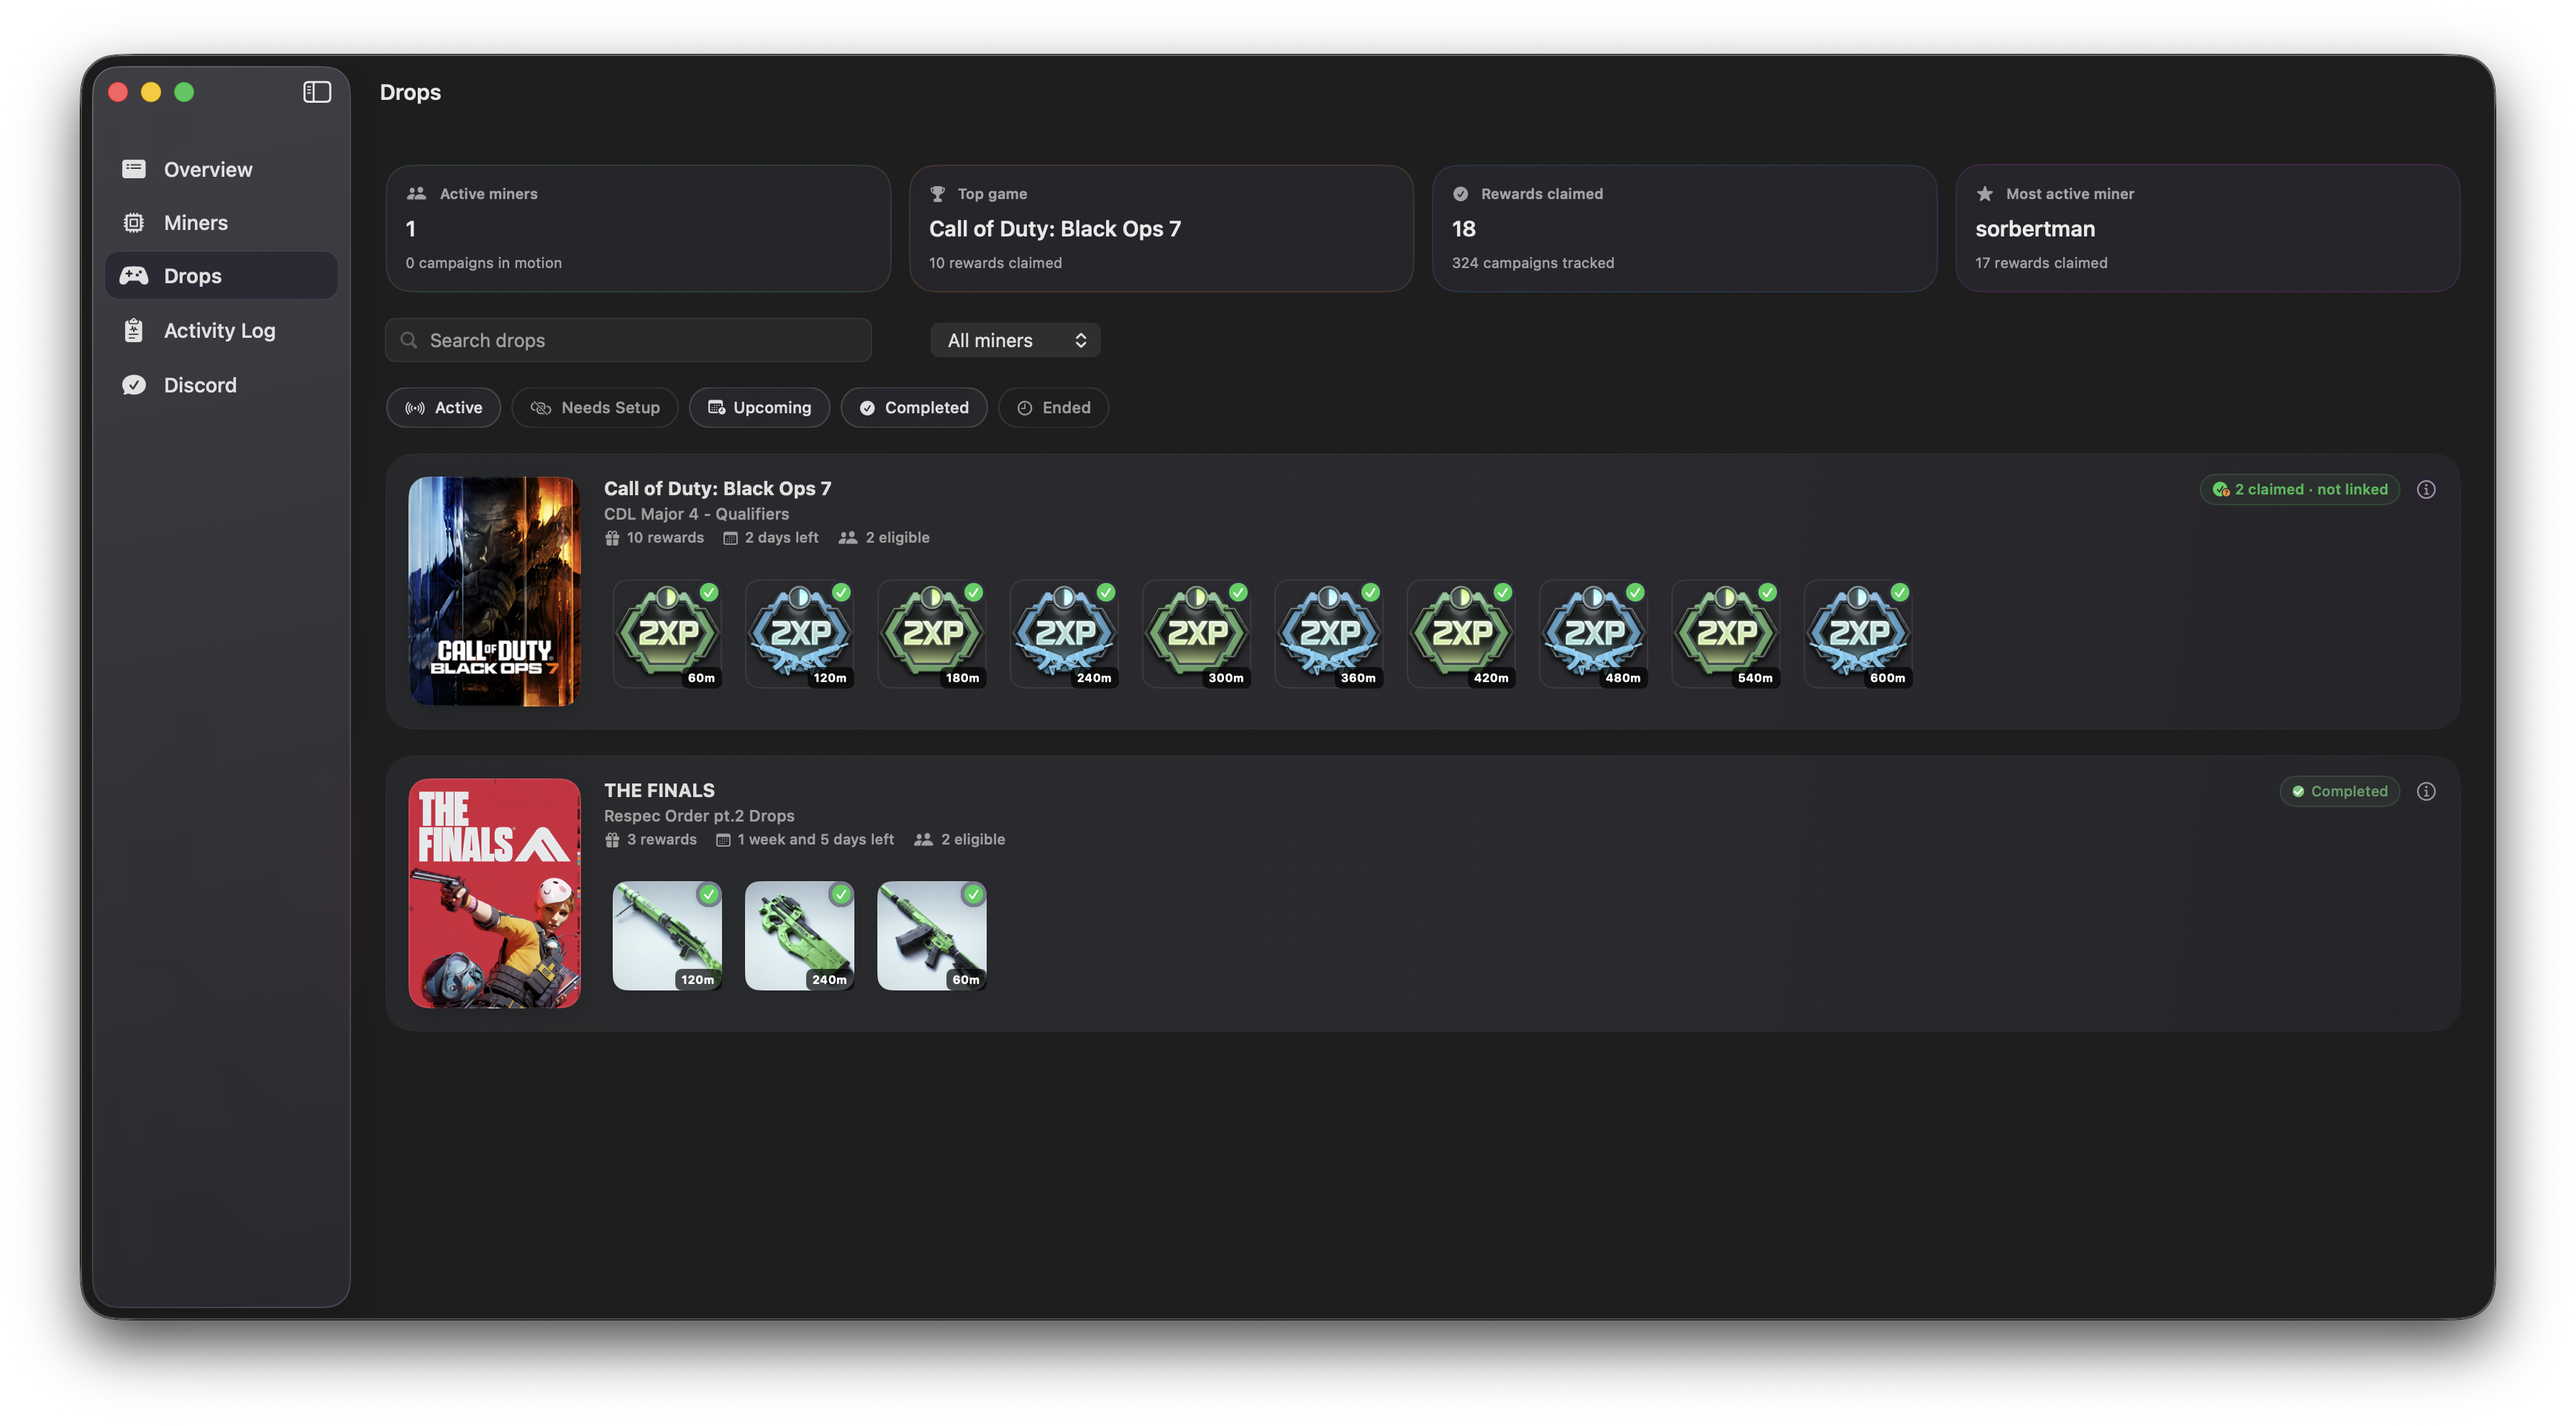
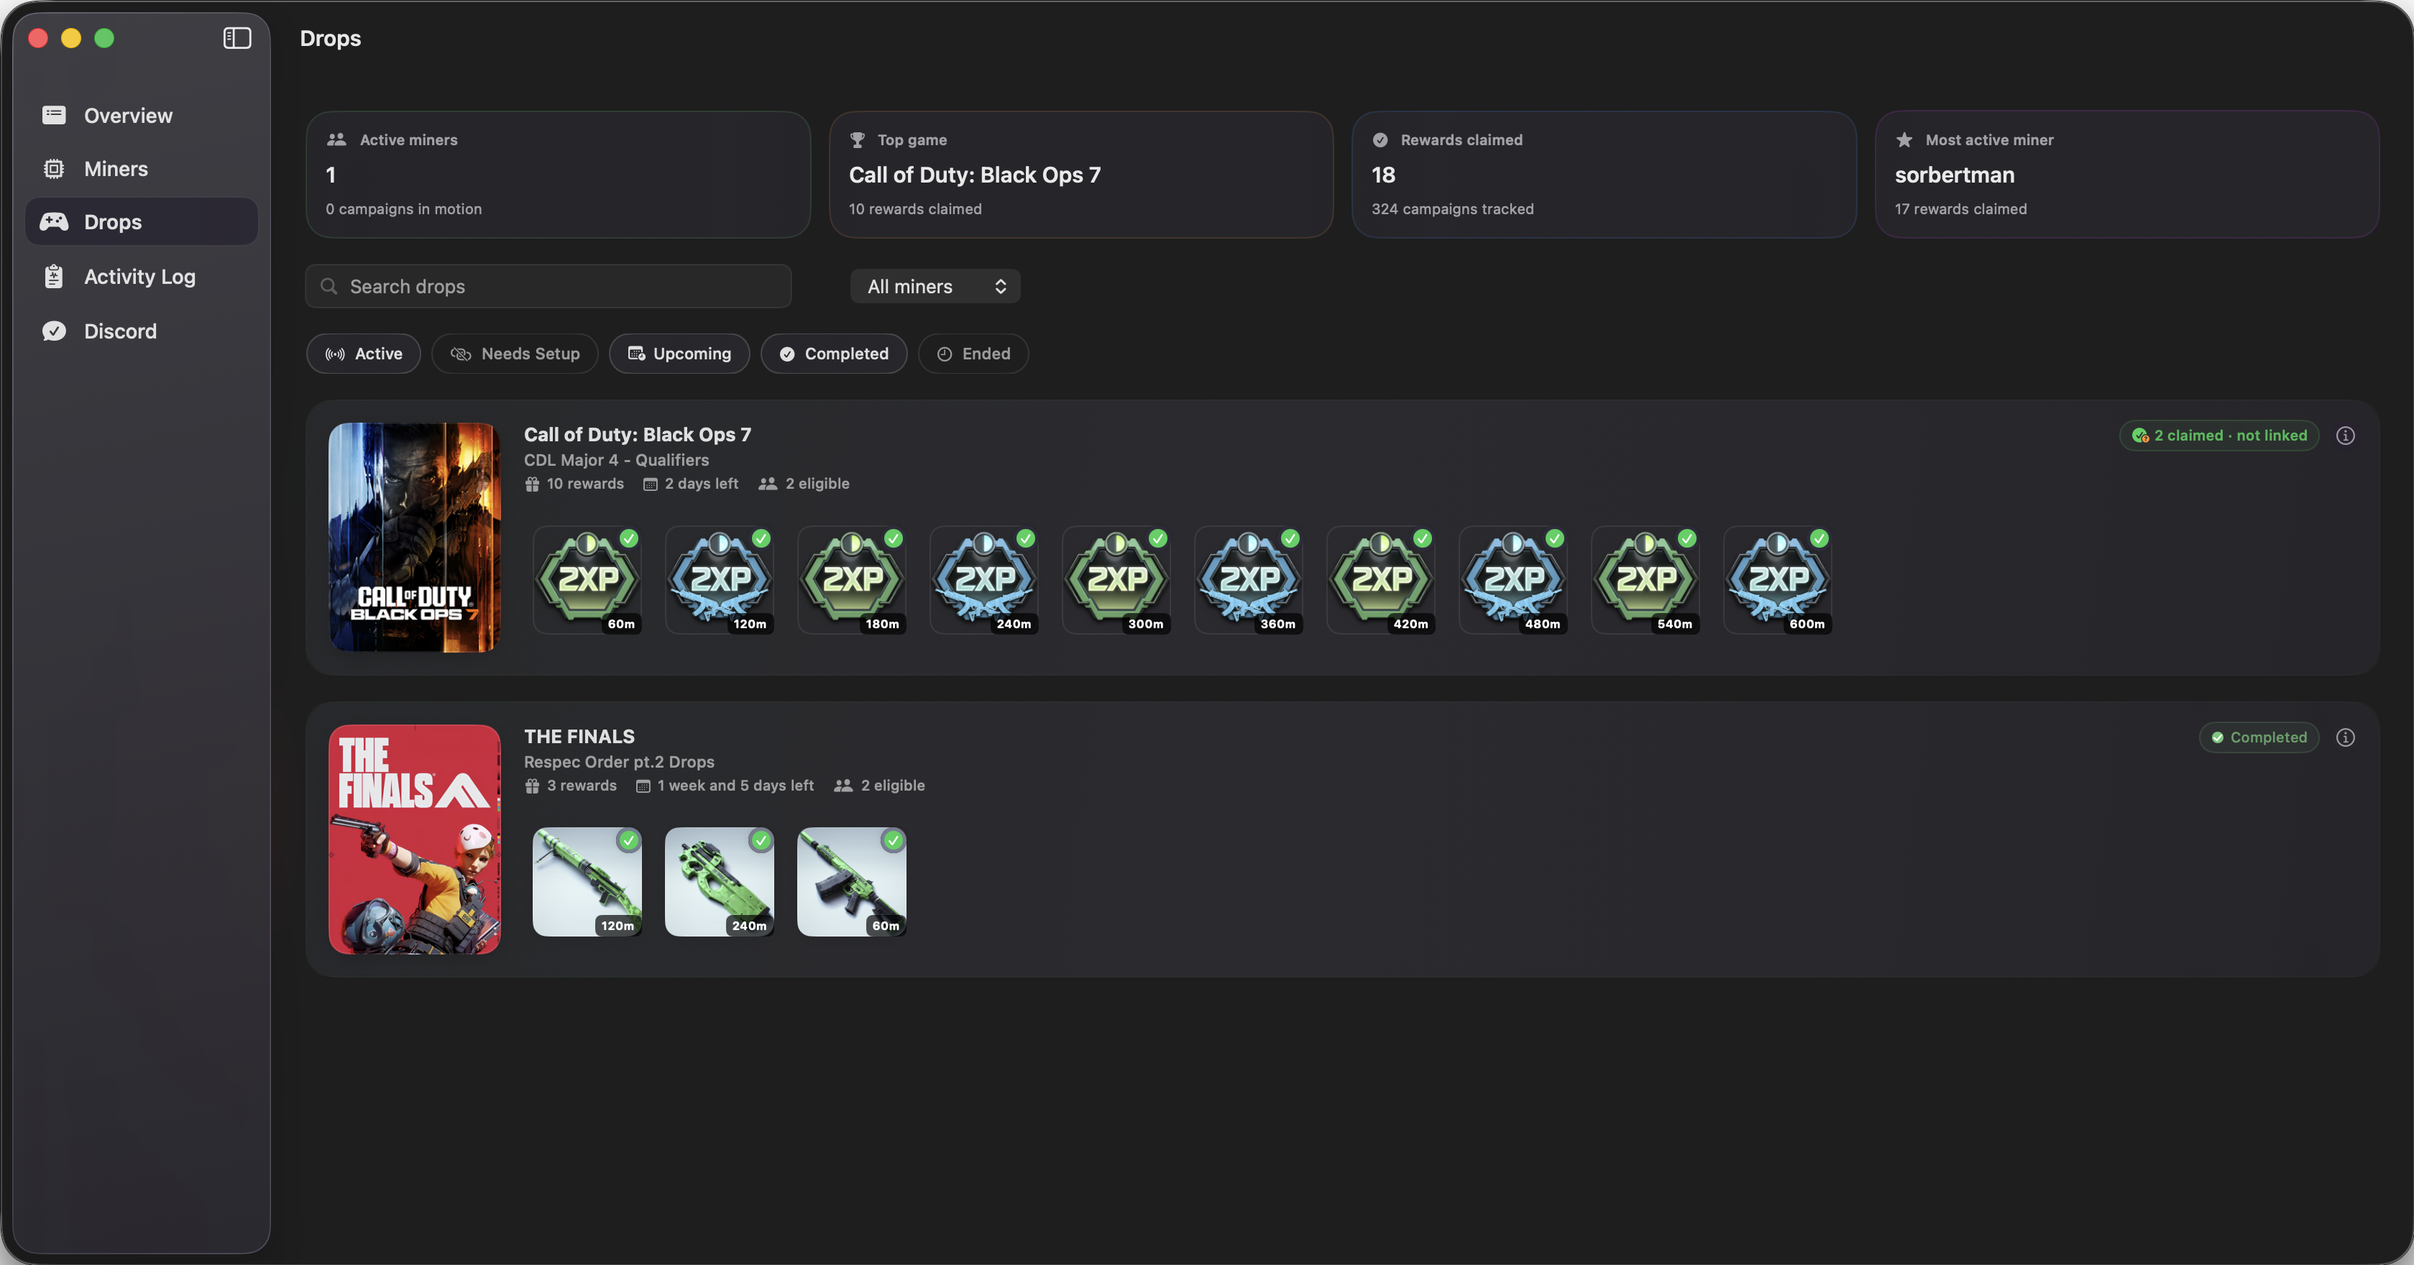
Improve theme handling and update landing images
Replace several landing screenshots and refine theme toggle logic in docs/index.html. applyTheme now accepts a savePreference flag so initial application or system-driven changes don't overwrite the user's stored preference. Initialization chooses light/dark based on savedLocal preference or OS setting, and the app now listens for OS color-scheme changes to follow the system and clear any manual override. Clicking the toggle still persists the user's choice. Screenshots for activity log, drops, miners, and overview (light/dark) were updated.

diff --git a/docs/index.html b/docs/index.html
@@ -550,15 +550,19 @@
             // Theme Toggle Logic
             const themeToggleBtn = document.getElementById('theme-toggle');
             
-            function applyTheme(isLight) {
+            function applyTheme(isLight, savePreference = true) {
                 if (isLight) {
                     document.documentElement.classList.add('light');
                     document.documentElement.classList.remove('dark');
-                    localStorage.setItem('theme', 'light');
+                    if (savePreference) {
+                        localStorage.setItem('theme', 'light');
+                    }
                 } else {
                     document.documentElement.classList.add('dark');
                     document.documentElement.classList.remove('light');
-                    localStorage.setItem('theme', 'dark');
+                    if (savePreference) {
+                        localStorage.setItem('theme', 'dark');
+                    }
                 }
                 
                 // Swap screenshots based on mode
@@ -573,14 +577,23 @@
                 }
             }
 
-            // Sync toggle state and apply initial theme images
-            const currentIsLight = document.documentElement.classList.contains('light');
-            applyTheme(currentIsLight);
+            // Sync toggle state and apply initial theme images on load
+            const savedTheme = localStorage.getItem('theme');
+            const systemPrefersLight = window.matchMedia('(prefers-color-scheme: light)').matches;
+            const initialIsLight = savedTheme === 'light' || (!savedTheme && systemPrefersLight);
+            applyTheme(initialIsLight, false);
+
+            // Listen to OS theme changes
+            window.matchMedia('(prefers-color-scheme: light)').addEventListener('change', (e) => {
+                // When system theme changes, automatically follow it and clear any manual override
+                localStorage.removeItem('theme');
+                applyTheme(e.matches, false);
+            });
 
             if (themeToggleBtn) {
                 themeToggleBtn.addEventListener('click', () => {
                     const isLight = !document.documentElement.classList.contains('light');
-                    applyTheme(isLight);
+                    applyTheme(isLight, true);
                 });
             }
 
